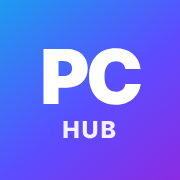
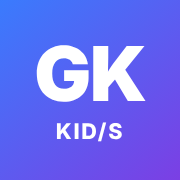
サイト名を「Game Kid/s」に変える（表示・題名・アプリ名・通知・共有画像とアイコン・規約・検索向けページ）。画像を作り直す tools/gen-brand.cjs を足す
Claude-Session: https://claude.ai/code/session_017NA3jd6VCqk1aQRBAZk9kr

Changed region(s): [[0.1944, 0.25, 0.8056, 0.5833], [0.3056, 0.6667, 0.6944, 0.8056], [0.0, 0.0, 0.2222, 0.1667]]

diff --git a/src/index.html b/src/index.html
@@ -3,16 +3,16 @@
 <head>
 <meta charset="UTF-8">
 <meta name="viewport" content="width=device-width, initial-scale=1.0, maximum-scale=1.0, user-scalable=no, viewport-fit=cover">
-<title>ポケチャン攻略Hub｜種族値・タイプ相性・パーティ診断</title>
+<title>Game Kid/s｜ポケモンチャンピオンズ攻略・種族値・タイプ相性・パーティ診断</title>
 <meta name="description" content="ポケモンチャンピオンズの収録ポケモン264匹の種族値、Lv50ステータス計算（能力ポイント対応）、タイプ相性、6匹持ち込み4匹選出のパーティ診断。">
 <meta name="theme-color" content="#000000">
 <link rel="manifest" href="manifest.webmanifest">
 <link rel="apple-touch-icon" href="apple-touch-icon.png">
 <meta name="apple-mobile-web-app-capable" content="yes">
 <meta name="mobile-web-app-capable" content="yes">
-<meta name="apple-mobile-web-app-title" content="ポケチャンHub">
+<meta name="apple-mobile-web-app-title" content="Game Kid/s">
 <meta name="apple-mobile-web-app-status-bar-style" content="black-translucent">
-<meta property="og:title" content="ポケチャン攻略Hub">
+<meta property="og:title" content="Game Kid/s｜ポケモンチャンピオンズ攻略">
 <meta property="og:description" content="種族値・Lv50計算・タイプ相性・パーティ診断をスマホで素早く。">
 <meta property="og:type" content="website">
 <link rel="preconnect" href="https://fonts.googleapis.com">
@@ -34,7 +34,7 @@
 <div class="fabwrap" id="fabwrap"><div class="fabin"><button class="fab" id="fab" aria-label="相性をワンタップで調べる" title="相性を調べる"><svg viewBox="0 0 24 24" fill="currentColor" aria-hidden="true"><path d="M13.3 2.5 4.9 13.6h5.9l-1.1 7.9 8.4-11.1h-5.9z"/></svg><span class="fl">相性</span></button></div></div>
 
 <div class="toast" id="toast" role="status" aria-live="polite"></div>
-<nav class="tabbar"><a class="pc-brand" href="#/" aria-label="ホーム"><span class="mark">PC</span><b>ポケチャン攻略Hub</b></a><div class="tabbar-in" id="nav"></div><button class="pc-post" id="pc-post" type="button"><svg viewBox="0 0 24 24" fill="currentColor" aria-hidden="true"><path d="M13.3 2.5 4.9 13.6h5.9l-1.1 7.9 8.4-11.1h-5.9z"/></svg><span>相性を調べる</span></button></nav>
+<nav class="tabbar"><a class="pc-brand" href="#/" aria-label="ホーム"><span class="mark">GK</span><b>Game Kid/s</b></a><div class="tabbar-in" id="nav"></div><button class="pc-post" id="pc-post" type="button"><svg viewBox="0 0 24 24" fill="currentColor" aria-hidden="true"><path d="M13.3 2.5 4.9 13.6h5.9l-1.1 7.9 8.4-11.1h-5.9z"/></svg><span>相性を調べる</span></button></nav>
 <aside class="pcside" aria-label="よく使う機能">
   <button class="pcs-search" id="pcs-search" type="button"><svg viewBox="0 0 24 24" fill="none" stroke="currentColor" stroke-width="2" stroke-linecap="round" aria-hidden="true"><circle cx="11" cy="11" r="7"/><path d="m20 20-3.5-3.5"/></svg>ポケモン名で相性を調べる</button>
   <div class="pcs-box" id="pcs-tools"></div>

diff --git a/src/js/30-legal.js b/src/js/30-legal.js
@@ -3,7 +3,7 @@
 const LEGAL_DATE='2026年10月29日';
 const legalPage=(title,body)=>{setHeader(title,'#/account');V.innerHTML=`<div class="rules legal">${body}<p style="color:var(--mute)">制定日：${LEGAL_DATE}</p></div>`};
 function termsView(){legalPage('利用規約',`
-<p>この利用規約（以下「本規約」）は、「ポケチャン攻略Hub」（ウェブサイト・アプリを含みます。以下「本サービス」）の利用条件を定めるものです。本サービスを利用する方（以下「利用者」）は、本規約に同意したうえで利用してください。</p>
+<p>この利用規約（以下「本規約」）は、「Game Kid/s」（ウェブサイト・アプリを含みます。以下「本サービス」）の利用条件を定めるものです。本サービスを利用する方（以下「利用者」）は、本規約に同意したうえで利用してください。</p>
 <h3>第1条（本サービスについて）</h3>
 <p>本サービスは、ゲーム『Pokémon Champions』の攻略情報・計算ツール・利用者どうしの交流の場を提供する<b>非公式のファンサービス</b>です。株式会社ポケモン、任天堂株式会社、株式会社クリーチャーズ、株式会社ゲームフリークとは関係がありません。</p>
 <h3>第2条（アカウント）</h3>
@@ -36,7 +36,7 @@ function termsView(){legalPage('利用規約',`
 <p>本規約は日本の法律に従って解釈します。本サービスに関して争いが起きたときは、運営者の所在地を管轄する地方裁判所を第一審の専属的合意管轄裁判所とします。</p>
 <h3>お問い合わせ</h3><p>お問い合わせ窓口は準備中です。</p>`)}
 function privacyView(){legalPage('プライバシーポリシー',`
-<p>「ポケチャン攻略Hub」（以下「本サービス」）の運営者は、利用者の情報を次のとおり取り扱います。</p>
+<p>「Game Kid/s」（以下「本サービス」）の運営者は、利用者の情報を次のとおり取り扱います。</p>
 <h3>1. 集める情報</h3>
 <ol><li><b>ログインの情報</b>：ログインに使ったメールアドレス、ログインの方法（Google・Apple・メール）、利用者を区別する番号。ログインは Google の Firebase Authentication を通じて行い、パスワードを運営者が受け取ることはありません。</li>
 <li><b>プロフィール</b>：ユーザーID・表示名・自己紹介（ほかの利用者に公開されます）。メールアドレスは公開しません。</li>

diff --git a/worker/src/worker_src.js b/worker/src/worker_src.js
@@ -1,4 +1,4 @@
-/* ポケチャン攻略Hub 背面タップ連携サーバー v5（掲示板・対戦募集つき）（Cloudflare Workers 用・このファイルをそのまま貼り付け）
+/* Game Kid/s 背面タップ連携サーバー v5（掲示板・対戦募集つき）（Cloudflare Workers 用・このファイルをそのまま貼り付け）
    iPhoneのショートカットから選出画面のスクリーンショットを受け取り、画像を理解できるAI（Claude）で
    相手のポケモンとタイプを読み取って、通知に収まる短い要約を返します。
    必要な設定（Workerの「設定」→「変数とシークレット」）:
@@ -372,7 +372,7 @@ export default{
       try{if(ct.includes('json')){const j=await req.json();text=j.text??text;team=String(j.team??team);mode=j.mode??mode}
         else if(ct.includes('form')){const f=await req.formData();text=f.get('text')||text;team=f.get('team')||team;mode=f.get('mode')||mode}
         else text=await req.text()||text}catch(e){}}
-    if(!text)return new Response('ポケチャン攻略Hub 背面タップ連携サーバーは動いています。',{headers:{...CORS,'Content-Type':'text/plain; charset=utf-8'}});
+    if(!text)return new Response('Game Kid/s 背面タップ連携サーバーは動いています。',{headers:{...CORS,'Content-Type':'text/plain; charset=utf-8'}});
     const teamNos=parseTeam(team).map(t=>t.no);
     const out=await summarize(text,teamNos,ctx,{excludeMine:mode==='full',ladder:u.searchParams.get('ladder')!=='0'});
     return new Response(out,{headers:{...CORS,'Content-Type':'text/plain; charset=utf-8','Cache-Control':'no-store'}});

diff --git a/src/js/47-share.js b/src/js/47-share.js
@@ -49,7 +49,7 @@ async function teamCard(list,title,noLogo){
   /* 下：サイトの名前とアドレス */
   const logo=noLogo?null:await new Promise(res=>{const i=new Image();i.onload=()=>res(i);i.onerror=()=>res(null);i.src='logo.png'});
   if(logo)g.drawImage(logo,W-56-300-46,y0-96,38,38);
-  g.fillStyle='#fff';g.font=`800 26px ${FF}`;g.textAlign='right';g.fillText('ポケチャン攻略Hub',W-56,y0-68);
+  g.fillStyle='#fff';g.font=`800 26px ${FF}`;g.textAlign='right';g.fillText('Game Kid/s',W-56,y0-68);
   g.fillStyle='rgba(255,255,255,.55)';g.font=`600 18px ${FF}`;g.fillText(SITE_BASE().replace(/^https?:\/\//,''),W-56,y0-42);g.textAlign='left';
   /* マークの画像が読めない場所（file:// など）では画像を書き出せないので、マークなしで作り直す */
   try{return await new Promise((r,j)=>{try{c.toBlob(r,'image/png')}catch(e){j(e)}})}catch(e){if(noLogo)throw e;return teamCard(list,title,true)}
@@ -58,7 +58,7 @@ async function teamCard(list,title,noLogo){
 async function shareTeamImage(){
   if(!team.length){toast('パーティが空です');return}
   const nos=shareNos(team),url=shareLink(nos),name=teamName(TEAMS.cur);
-  const text=`${name}：${nos.map(n=>formInfo(byNo[n]).base).join('・')}\n#ポケモンチャンピオンズ #ポケチャン攻略Hub`;
+  const text=`${name}：${nos.map(n=>formInfo(byNo[n]).base).join('・')}\n#ポケモンチャンピオンズ #GameKids`;
   let blob;try{blob=await teamCard(team,name)}catch(e){blob=null}
   const file=blob&&new File([blob],'party.png',{type:'image/png'});
   if(file&&navigator.canShare&&navigator.canShare({files:[file]})){

diff --git a/src/js/97-dict-en.js b/src/js/97-dict-en.js
@@ -5,7 +5,7 @@ const EN={
 /* メニュー・共通 */
 'ホーム':'Home','図鑑':'Pokédex','ツール':'Tools','パーティ':'Team','コミュニティ':'Community','みんな':'Everyone','戻る':'Back','閉じる':'Close','やめる':'Cancel','決定':'OK',
 'すべて見る':'See all','すべて':'All','更新':'Refresh','クリア':'Clear','リセット':'Reset','保存する':'Save','読み込み中…':'Loading…','準備中':'Coming soon',
-'ポケチャン攻略Hub':'PokeChamp Hub','ポケチャン':'PokeChamp','ポケ':'Poké','ポケモンチャンピオンズ':'Pokémon Champions','イー':'eF','イーフト':'eFootball',
+'ポケチャン攻略Hub':'PokeChamp Hub','Game Kid/s｜ポケモンチャンピオンズ攻略':'Game Kid/s | Pokémon Champions guide','ポケチャン':'PokeChamp','ポケ':'Poké','ポケモンチャンピオンズ':'Pokémon Champions','イー':'eF','イーフト':'eFootball',
 '相性を調べる':'Matchups','相性をワンタップで調べる':'Check matchups in one tap','ポケモン名で相性を調べる':'Matchups by Pokémon name',
 '広告枠（インフィード）':'Ad space','広告枠（記事下）':'Ad space',
 'データの出典と確認状況':'Data sources & verification','非公式のファンサイトです。':'Unofficial fan site.','利用規約':'Terms','プライバシーポリシー':'Privacy','データの出典':'Data sources',

diff --git a/src/static/sw.js b/src/static/sw.js
@@ -1,11 +1,11 @@
-/* ポケチャン攻略Hub の通知の受け取り（Service Worker）。
+/* Game Kid/s の通知の受け取り（Service Worker）。
    サーバーから届いた通知（暗号化はブラウザがほどく）を表示し、押されたらその画面を開く。
    画面のファイルのキャッシュはしない（いつも最新を読むため）。 */
 self.addEventListener('install',()=>self.skipWaiting());
 self.addEventListener('activate',e=>e.waitUntil(self.clients.claim()));
 self.addEventListener('push',e=>{
   let m={};try{m=e.data?e.data.json():{}}catch(_){m={body:e.data&&e.data.text()}}
-  const title=m.title||'ポケチャン攻略Hub';
+  const title=m.title||'Game Kid/s';
   e.waitUntil(self.registration.showNotification(title,{body:m.body||'',icon:'icon-192.png',badge:'badge-96.png',tag:m.tag||undefined,renotify:!!m.tag,data:{url:m.url||'#/notif'}}));
 });
 self.addEventListener('notificationclick',e=>{

diff --git a/functions/t/[[path]].js b/functions/t/[[path]].js
@@ -2,7 +2,7 @@
    X などにリンクを貼ったとき、ここが返す題名・説明・画像（og）がカードとして表示される。
    人が開いたときは、すぐにサイトの「共有されたパーティ」の画面（#/share/…）へ移る。
    ポケモンの名前は、公開のときに作る /assets/mon-names.json（tools/gen-pages.cjs）から引く。 */
-const SITE='ポケチャン攻略Hub';
+const SITE='Game Kid/s';
 const esc=s=>String(s).replace(/&/g,'&amp;').replace(/"/g,'&quot;').replace(/</g,'&lt;').replace(/>/g,'&gt;');
 export async function onRequest({request,env}){
   const u=new URL(request.url);

diff --git a/worker/src/push.js b/worker/src/push.js
@@ -90,7 +90,7 @@ async function pushApi(req,env,db,path,body,now){
     return J({ok:true});
   }
   if(path==='/api/me/push/test'&&req.method==='POST'){
-    await pushTo(db,me.uid,{title:'ポケチャン攻略Hub',body:'通知のテストです。このように届きます。',url:'#/notif'});
+    await pushTo(db,me.uid,{title:'Game Kid/s',body:'通知のテストです。このように届きます。',url:'#/notif'});
     return J({ok:true});
   }
   return null;

diff --git a/CLAUDE.md b/CLAUDE.md
@@ -1,4 +1,4 @@
-# ポケチャン攻略Hub — 作業メモ（Claude 向けの引き継ぎ）
+# Game Kid/s（旧ポケチャン攻略Hub）— 作業メモ（Claude 向けの引き継ぎ）
 
 ポケモンチャンピオンズ（Pokémon Champions）の非公式攻略サイト＋交流機能。
 将来は X（旧Twitter）規模の「複数ゲームの総合アプリ」を目指している。
@@ -65,7 +65,7 @@
 - 攻略ガイド（`37-guide.js`）：#/learn（道具・戦術）、#/item/キー、#/word/ID。道具は `ITEM_GUIDE`（こだわり系・火力・耐久・タイプ強化18種）の文章＋種族値から選ぶ「持たせる候補の例」、メガストーン81種は `megaGuide` がデータから説明を作る。戦術・用語は `WORDS`（20語）。技・特性は `38-guide-moves.js`（#/learn/move・#/learn/ability、#/move/番号・#/ability/キー）：`MOVE_ROLES`（18の役割）・`ABILITY_ROLES`（12の役割）に当サイトの説明、技・特性のページに覚える／持つポケモン。技のページの「使いどころ」は `moveTips`（その技のデータ＝優先度・命中・追加効果・反動など）だけから作り、グループの説明は使わない（グループは「分類」の札＋どの技にも当てはまる一言 `ROLE_TIP`）。特性も同じく `AB_ROLE_TIP`。検索にも出る（`guideSearch`）。英語は未翻訳。ポケモンごとの解説は `39-guide-mons.js` の `monGuide(p)`：図鑑の「解説」タブ（#/p/番号 の2つ目のタブ。タブは 種族値・解説・実数値・弱点・対策・技・特性）と検索向けの静的ページ（gen-pages）に出す。特徴（ひとこと→強いところ→弱いところ→数字で見ると。各項目は「見出し＋理由＋対戦での意味」で書く。2026/10/30 に数字の羅列から書き直し）・メガシンカすると（メガシンカの姿ごとに、元のポケモンと同じ全項目＋「メガシンカで変わるところ」＝種族値の増減・タイプと弱点・特性・素早さ。`monGuide(メガ)` は元のポケモンの覚える技と、メガ後の特性1つで考え、型の例の持ち物はメガストーン）・〇〇を軸にしたパーティの例（攻撃・耐久・場づくりのどれかで軸になれるときだけ。`axisTeam` が軸と味方の弱点を受けられるか・まだ突けないタイプを突けるか・天気/トリルの組み合わせで5匹を選び、`archSets` で育成。メガは元のポケモン＋メガストーンで入れる。「このパーティを使う」＝`AXIS_DATA`→`useTeam`）・向いている役割・型の例（計算で組む。「実際の型とは違うことがある」と明記。シングル2つ＋ダブル1つ、上に一覧とおすすめ。型ごとに実数値・この型の役割 `roleOf`・技の入れ替え候補 `altOf`（技のデータ＋どのタイプを新しく突けるか）・苦手なポケモン `hardOf`＝合計種族値の高い60匹＋メガ20匹 `gmOpps` とダメージ計算で、こちらが45%未満・相手が35%以上の相手。2026/10/31 に依頼主が他サイトの構成と比べて要望。中身はデータから）。ランクバトルの集計（championsbattledata.com、`LIVE.csv`。解説タブを開くと `liveMon` で読み、届いたら作り直す）があれば「ランクバトルでよく使われている型」を先頭に置き、「ランクバトルでの使われ方」（`gmLiveHTML`）も出す。champs.pokedb.tokyo は運営者の許可待ち（依頼主が X で問い合わせる）・技の選び方・特性・相性のいい味方（弱点を受け合う＋天気/トリル）・有利な相手を、すべてデータから組み立てる。タイプ相性は特性も入れる（`monDef`・`AB_DEF`：ふゆう＝じめん無効、ちょすい・もらいび・あついしぼう等。すべての特性で同じなら確定、特性しだいなら `defNotes` で「特性が〇〇なら」と書く。図鑑の弱点タブ・静的ページにも反映）。構築の型は `40-guide-builds.js` の `ARCHS`（あめ・はれ・すなあらし・ゆき・トリックルーム・おいかぜ・対面・サイクル・積みエースの9つ）：#/learn/build（一覧＋いまのパーティに近い型）・#/arch/ID（考え方・組み方・弱点と対策・いまのパーティの○×・中心になるポケモンの例・よく使う技）。パーツは [名前, 条件, 必須か, 先に出す特性]。`archBuild(a)` が型の例のパーティを6匹組み（必須の役→あるとよい役→弱点が重ならないように埋める）、`archSets(a,mons)` が1匹ずつ育成（特性・持ち物・性格・能力ポイント・技4つ）を組む：`monGuide(p,{raw:true})` の型の例を部品にし、パーツの5つ目の技（あまごい・トリックルーム・おいかぜ等）を入れ、トリル型は素早さを下げ、持ち物は重ならないようにする。「このパーティを使う」で育成ごと空いているパーティの枠に入れる（空きがなければ確認して入れかえ）。検索向けの静的ページ `build/ID/`・`build/`（gen-pages）。
 - PC表示：700px以上で下のタブ→左のメニュー（本文600px）、1280px以上で右に「よく使う機能」（`src/styles.css` の最後・`31-desktop.js`・`index.html` の `.pc-*`/`.pcside`）。スマホ（699px以下）の見た目は変えない。
 - `config/public.json`：公開してよい設定（Firebase のウェブ用の値）。build でページの `window.PC_CONFIG` に入る。
-- 運営の方針（2026/10/31 依頼主）：まずポケモンチャンピオンズ専用のウェブサイトとして運営→のちにアプリ→そこでゲームを増やす。いまは `27-games.js` の `MULTI_GAME=false` で、ゲームの切り替え（左メニューの項目・左上の▾・#/games・起動時の選択）を隠している。ゲームを増やすときに true にする。広告は検討中（AdSense なら独自ドメインが先。依頼主は扶養の範囲を気にしている）。2026/11/09 依頼主の方針：ポケモンチャンピオンズの部分は半自動で更新（データ更新は週1回 GitHub が元データを見て「更新の案」を作り、依頼主が確認して反映。レギュレーションの記事はお知らせbotから知らせる）、空いた手で新しいゲームのサイトを次々に足していく。公開と収益化の計画は依頼主の Claude Docs「公開と収益化の計画（案）」（https://claude.ai/artifact/CmADa2EEAVbHn3GRmPnoWk）：公開準備→人集め（1日1,000表示が目安）→寄付→広告→有料会員の順。複数ゲームならサイト名とドメインはポケモンを含まない総合の名前を推奨（依頼主の判断待ち）。
+- 運営の方針（2026/10/31 依頼主）：まずポケモンチャンピオンズ専用のウェブサイトとして運営→のちにアプリ→そこでゲームを増やす。いまは `27-games.js` の `MULTI_GAME=false` で、ゲームの切り替え（左メニューの項目・左上の▾・#/games・起動時の選択）を隠している。ゲームを増やすときに true にする。広告は検討中（AdSense なら独自ドメインが先。依頼主は扶養の範囲を気にしている）。2026/11/09 依頼主の方針：ポケモンチャンピオンズの部分は半自動で更新（データ更新は週1回 GitHub が元データを見て「更新の案」を作り、依頼主が確認して反映。レギュレーションの記事はお知らせbotから知らせる）、空いた手で新しいゲームのサイトを次々に足していく。公開と収益化の計画は依頼主の Claude Docs「公開と収益化の計画（案）」（https://claude.ai/artifact/CmADa2EEAVbHn3GRmPnoWk）：公開準備→人集め（1日1,000表示が目安）→寄付→広告→有料会員の順。サイト名は2026/11/09 依頼主が「Game Kid/s」に決定（ゲーム小僧＋s＝サポート・ソリューション・システム）。表示名・ページの題名・manifest・通知・共有画像の文字・ハッシュタグ #GameKids・利用規約・検索向けページ（gen-pages の SITE）・functions/t の og を変更。共有用画像とアイコンは `tools/gen-brand.cjs`（HTML を Playwright で PNG にする。CHROMIUM=/opt/pw-browsers/chromium）で作り直す。左上の黄色い「ポケ」はいま開いているゲームの印。ドメインは未取得（アドレスに / は使えないので gamekids 等）。リポジトリ名・Cloudflare のプロジェクト名・アドレス pokechan-hub.pages.dev はまだ前のまま。
 - ゲームの追加：`27-games.js` の `GAMES` に1件足す（`tabs`＝下/左のメニュー、`tools()`＝ツール一覧〔id・sec・href・ic・t・s(短い名前)・d〕、`quick`＝初めての人向けの「すぐ使う」、`fab`＝右下ボタンの有無）。「コミュニティ」タブ（旧「みんな」）は全ゲーム共通で自動で付く。ツール画面・ホームの「すぐ使う」・PCの右の列・最近使った（`pcrecent`）・マイツール（☆、`pctools`）はゲームごとに自動で切りかわる。画面の中身（views）はゲームごとに新しいファイルで作り、`06-router.js` の表に足す。
 - ことば（日本語・英語）：`00-i18n.js`（LANG＝端末の言語→利用者が選ぶと `pclang` に保存、`L('日本語','English')`）、`02-names.js`（ポケモン・技・特性・持ち物・性格・タイプの英語の正式名。`python3 tools/gen-names.py <PokeAPIのCSVフォルダ>` で作る。手で直さない）、`97-dict-en.js`（画面の文字の辞書 `EN` と、数字入りの文の置きかえ `EN_RE`）、`98-i18n.js`（英語のときだけ名前を入れかえ、画面に出た文字を辞書で置きかえる）。利用者が書いたもの（投稿・掲示板・名前）は `data-notr` を付けて訳さない。新しい画面を作ったら `tests/i18n.mjs` が訳し忘れを一覧にするので、辞書に足す。未翻訳：技・特性の説明文（MD・ABDS）、基本ルール・出典・利用規約などの長い文、サーバーのエラー文の一部。韓国語・中国語は `gen-names.py` の LANGS と辞書を足せば増やせる。テスト・検索向けページは `locale:'ja-JP'` で日本語に固定。
 - タイムライン：サイトは `32-timeline.js`（#/tl・#/tl/following・#/u/ID・#/n/番号・#/notif）、サーバーは `worker/src/social.js`（/api/tl・/api/notes・/api/follow・/api/notifs・/api/u）。見るのはログイン不要、書くのはプロフィール作成済みの人だけ。140文字・15秒に1件・1日100件・リンク不可・ログインした人3人の通報で非表示。返信（notes.reply_to・replies 数、#/n/番号 に返信先→投稿→返信の一覧、`twReplySheet`）とリポスト（repost_of を持つ本文なしの1行＝並び・ページングはそのまま。`NOTE_COLS` が元の投稿の中身を出し、rid が行の番号。reposts 数）。お知らせは like・reply・repost・follow。列は `socialInit` が ALTER TABLE で足す（すでにあればエラーを無視）。管理画面（#/admin）から通報された人・最近の投稿の人を停止／「停止中のアカウント」タブで解除（/api/admin/ban・/api/admin/banned、users.banned）。画像つき投稿（`worker/src/media.js`）：サイトで長い辺1600px・WebP/JPEG に縮めて（Exif も消える）POST /api/media に中身だけ送る→鍵→/api/notes の media:[鍵] で付ける（4枚まで・1日30枚・画像だけの投稿も可）。サーバーは先頭のバイトで JPEG/PNG/WebP だけ受け付け、保存先は R2（binding MEDIA があれば）か D1 の media 表。表示は GET /m/鍵（非表示・確認待ち・停止中は404、管理者は X-Admin-Token で見られる）。通報1件で画像だけ確認待ち（notes.media_hidden）、管理画面の「問題なし」「元に戻す」で戻る。付かなかった画像は1日で掃除。deploy.yml が R2 のバケット pokechan-media を作れたら MEDIA をつなぐ（作れなければ D1 のまま）。
